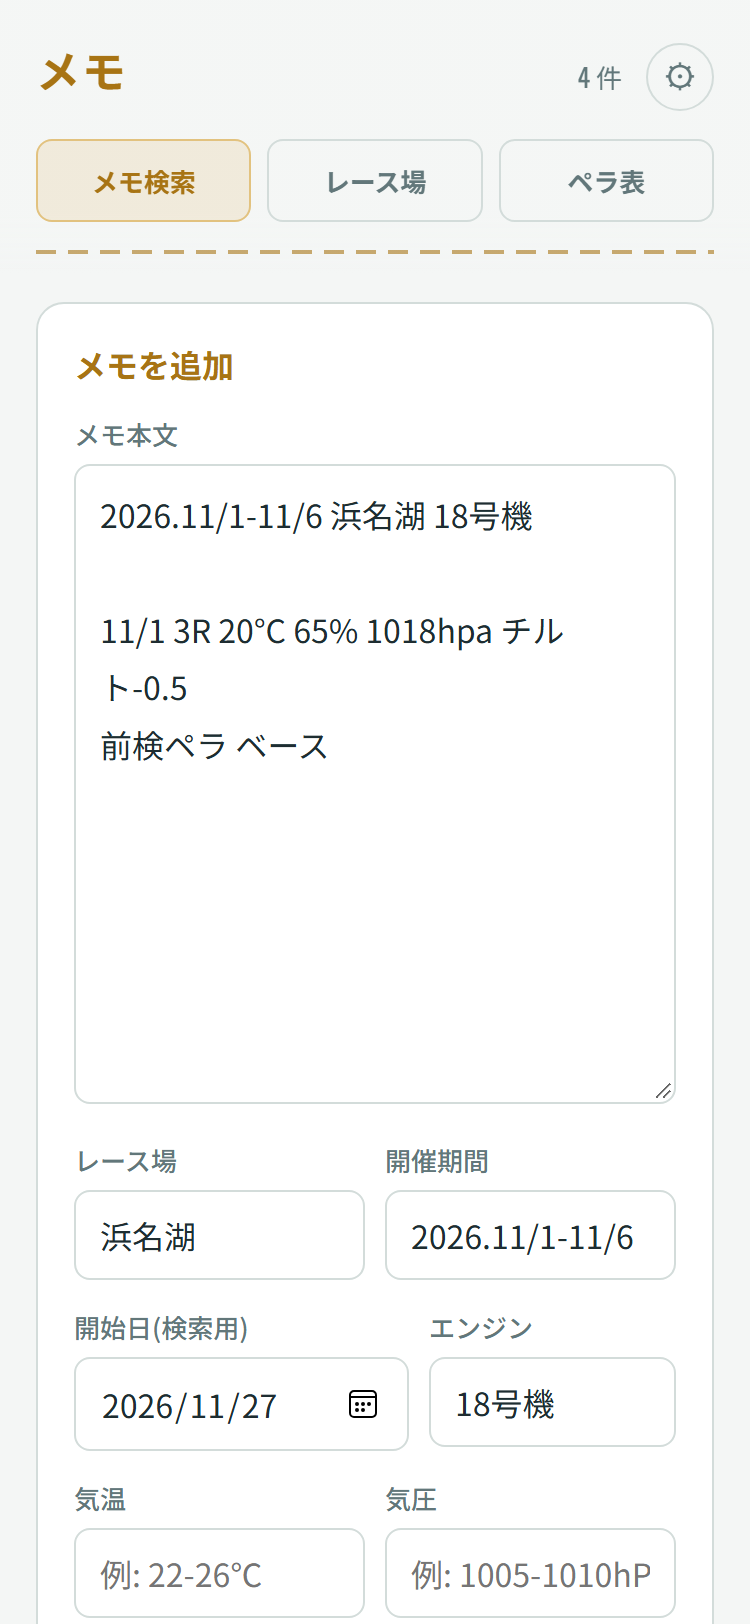
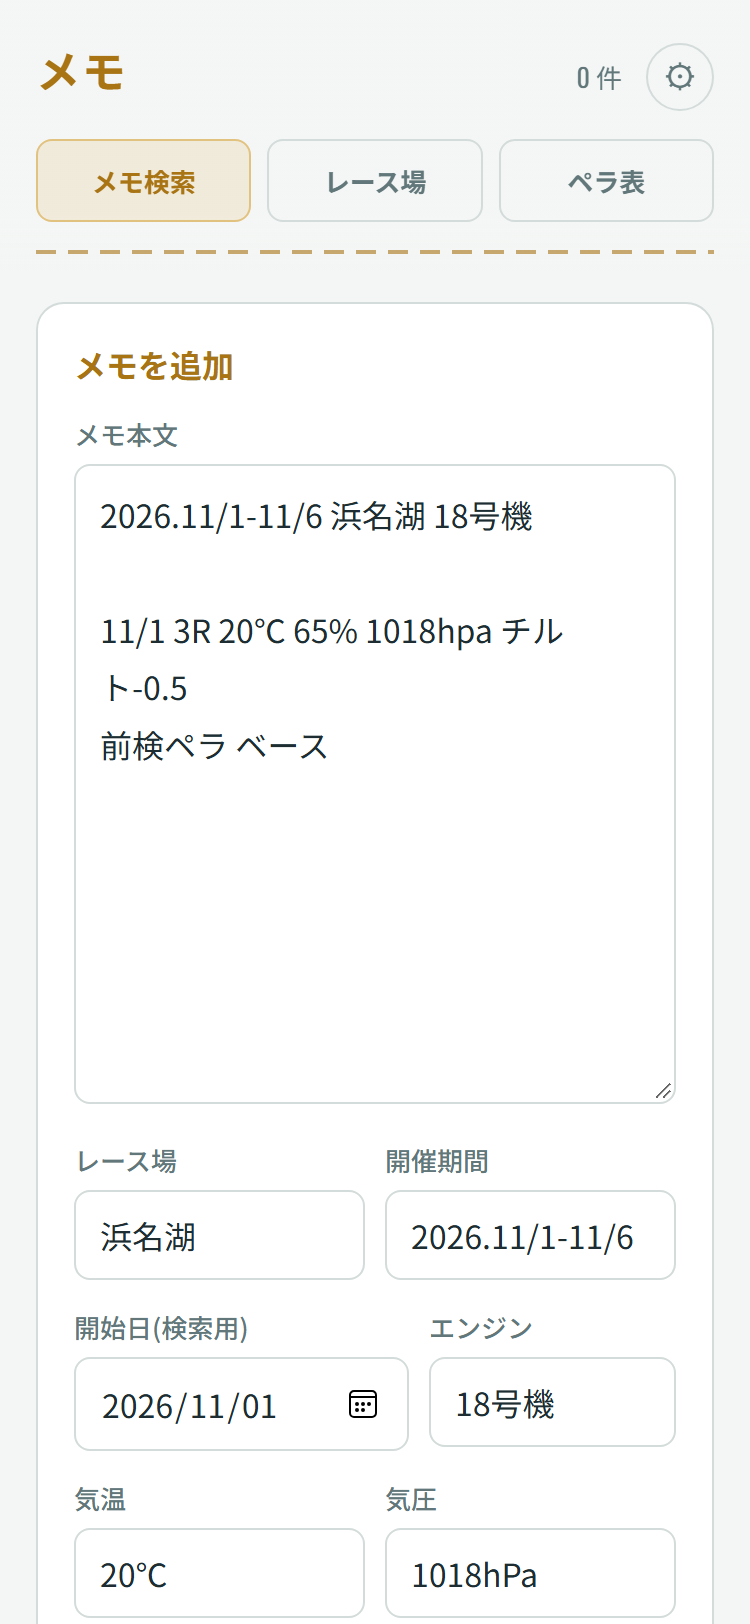
20261127 使い方ページの文言と、メモ追加の写真(開始日)を修正

diff --git a/race-log.html b/race-log.html
@@ -395,7 +395,7 @@
 
   <div class="howto-sec">
     <h3>1. メモを追加する</h3>
-    <ol><li>「メモ検索」の「＋ メモを追加」を押します。</li><li>本文に、メモを書くか貼り付けます。</li><li>レース場・開催期間・エンジンなどを入れます（空でも、本文から読み取れる分は入ります）。</li><li>「保存する」を押します。</li></ol>
+    <ol><li>「メモ検索」の「＋ メモを追加」を押します。</li><li>本文に、メモを書きます。</li><li>レース場・開催期間・エンジンなどを入れます（空の状態でも、本文から自動で読み取って反映される場合があります）。</li><li>「保存する」を押します。</li></ol>
     <img class="howto-img" src="howto/02_add.png" alt="メモを追加する画面" loading="lazy">
   </div>
 
